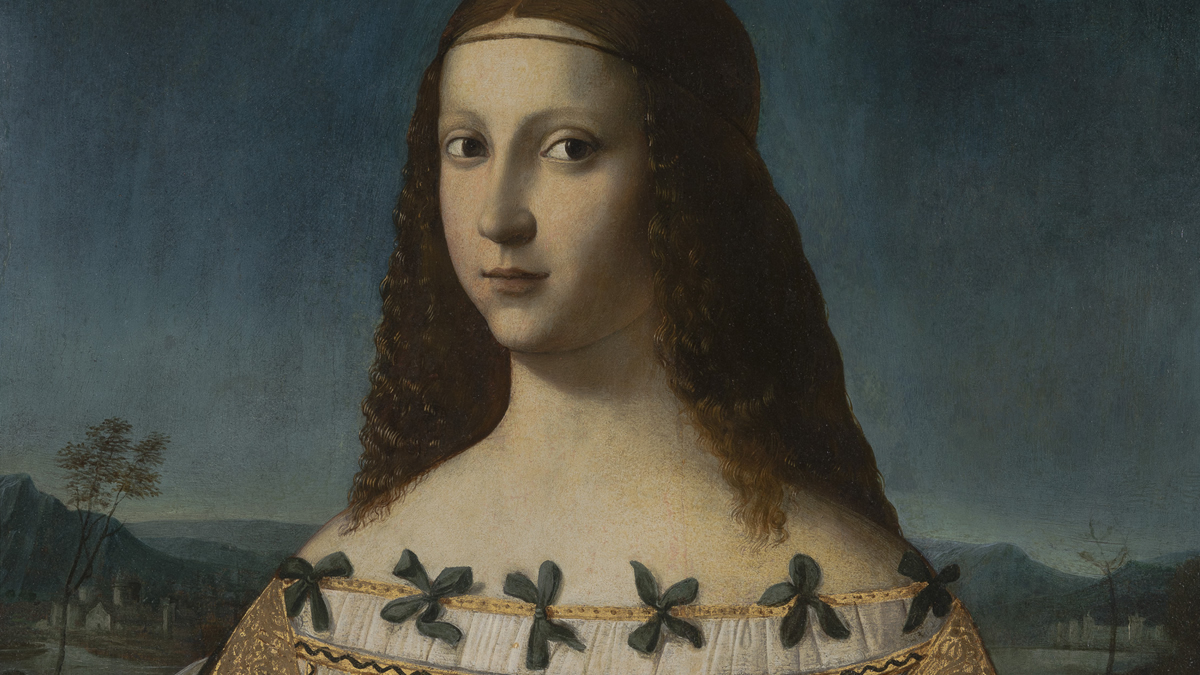
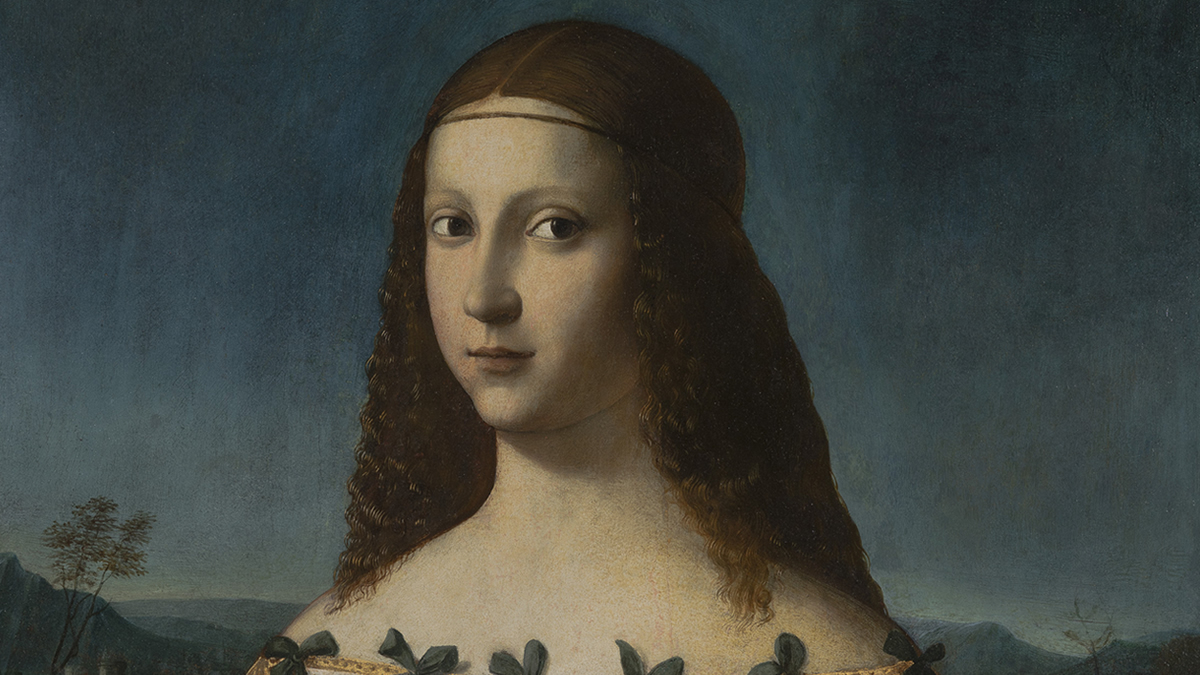
Updates to home page layout and cleaning up styling on text across the site.

diff --git a/src/Components/Home/HomeBanner/index.js b/src/Components/Home/HomeBanner/index.js
@@ -11,11 +11,11 @@ const HomeBanner = () => {
       />
       <div className='imageCaption'>
         <div className='captionFrame'>
-          <h1>Explore digitized artwork, rare books, artifacts, and archival materials from the Snite Museum of Art and Hesburgh Libraries.</h1>
+          <h1>Explore digitized artwork, rare books, artifacts, and archival materials from the University of Notre Dame.</h1>
         </div>
       </div>
       <div className='imageCitation'>
-        <p className='citation'><sub>Unrecorded Chinese artists,  <em>Untitled: Patriarch En Route with Attendants</em>,  20th century, woodcut with watercolor. <br />Snite Museum of Art, University of Notre Dame, Transfer from the Rare Books and Special Collections Department, 1977.005.045.</sub></p>
+        <p className='citation'><sub>Photograph of St. Joseph's Novitiate exterior from across St. Joseph's Lake, 1894,<br /> Notre Dame Life Photograph Collection (GNDL) 45/0, University of Notre Dame Archives.</sub></p>
       </div>
     </div>
   )

diff --git a/src/Components/Home/style.css b/src/Components/Home/style.css
@@ -18,13 +18,14 @@
 }
 
 .imageCaption {
-	position: absolute;
-	top: 0;
+	position: relative;
+	top: 50px;
 	left: 0;
-	width: 100%;
-	padding: 10px;
-	background: rgba(0, 0, 0, 0.5);
+	width: 724px;
+	padding: 12px 12px 115px 12px;
+	background: rgba(0, 0, 0, 0.6);
 	z-index: 5;
+	margin: 0 auto;
 	color: #fff;
 	box-sizing: border-box;
 	font-weight: bold;
@@ -35,7 +36,7 @@
 	font-size: 24px;
 	text-shadow: 0px 0px 12px rgba(0, 0, 0, 0.45);
 	text-align: center;
-	font-size: 32px;
+	font-size: 28px;
 }
 
 .imageCitation {
@@ -57,7 +58,16 @@ p.citation {
 
 	max-width: 960px;
 	margin: 0 auto;
+	
 
+
+
+}
+
+p.citation sub {
+	background: rgba(0, 0, 0, 0.5);
+	padding: 3px;
+	white-space: pre;
 }
 
 .imageCaption sub {

diff --git a/src/index.css b/src/index.css
@@ -15,7 +15,6 @@ code {
 
 dl dd p {
   margin: 0;
-  word-break: break-all;
 }
 
 .clearfix {
@@ -24,4 +23,21 @@ dl dd p {
 
 .picture {
   overflow: hidden;
+}
+
+p {
+  line-height: 1.58;
+}
+
+h1, h2, h3, h4, h5, h6, p {
+  margin-top: 0;
+}
+
+h2 {
+  font-size: 32px;
+  margin-bottom: .8em;
+}
+
+h3 {
+  font-size: 24px;
 }

diff --git a/src/Components/ManifestView/Item/ItemMetaData/style.css b/src/Components/ManifestView/Item/ItemMetaData/style.css
@@ -3,6 +3,8 @@ dl.metaData dt {
   clear: left;
   width: 160px;
   text-align: right;
+  font-weight: bold;
+  color: #666;
 }
 dl.metaData dt:after {
   content: ':';
@@ -10,5 +12,4 @@ dl.metaData dt:after {
 dl.metaData dd {
   margin: 0 0 0 170px;
   padding: 0 0 0.5em 0;
-  word-break: break-all;
 }

diff --git a/src/Components/StaticPage/About/style.css b/src/Components/StaticPage/About/style.css
@@ -2,12 +2,10 @@
   display: flex;
 }
 .partners div {
-  text-align: justify;
   width: calc(33.33% - 20px);
   word-break: break-word;
 }
 .partners div a {
-  word-break: break-all;
 }
 .partners .partner1 {
   margin: 0 20px 0 0;

diff --git a/src/Components/Layouts/ContentLeftSidebar/style.css b/src/Components/Layouts/ContentLeftSidebar/style.css
@@ -24,6 +24,10 @@
   width: calc(var(--inner-page-width) * .55 - 1rem);
 }
 
+.sideBar h2 {
+  font-size: 28px;
+}
+
 @media (max-width: 780px) {
   .sideBar,
   .evenSplit .sideBar {

diff --git a/src/Components/Shared/Card/style.css b/src/Components/Shared/Card/style.css
@@ -20,8 +20,10 @@ a.card {
 }
 
 .card h3 {
-  margin: 0 10px 10px;
+  margin:  10px 10px;
   word-break: break-all;
+  font-size: 18px;
+  line-height: 1;
 }
 
 .card .additional {

diff --git a/src/Components/App/Page/style.css b/src/Components/App/Page/style.css
@@ -2,6 +2,7 @@
   margin: 0 auto;
   min-height: 90vh;
   width: var(--inner-page-width);
+  padding-top: 1.8em;
 }
 
 @media (max-width: 780px) {
